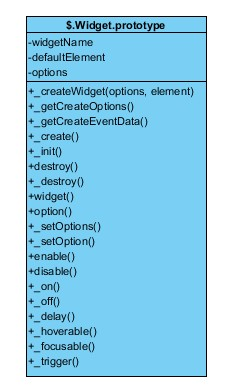
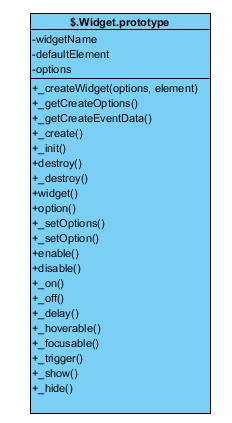
web ui platform

Changed region(s): [[0.0921, 0.031, 0.9211, 0.9922]]

diff --git a/WebContent/web/jquery/jqueryui/source/jQuery UI 代码组成结构.html b/WebContent/web/jquery/jqueryui/source/jQuery UI 代码组成结构.html
@@ -55,7 +55,7 @@ $( ":tabbable" ).css( "border-color", "red" );// 1 2 匹配成功，不设置tab
           <h3 paragraph="2">Utilities</h3>
             
             <p>该模块中包含了jquery.ui.position.js、jquery.ui.widget.js和jquery.ui.mouse.js</p>
-            <p>1、首先看源文件jquery.ui.position.js，该文件中主要围绕$.fn.position（该方法扩展了jQuery中的$.fn.position）展开。<span class="h-web-font-red">该文件可脱离jquery ui 单独作为工具类使用</span>。</p>
+            <p>首先看源文件jquery.ui.position.js，该文件中主要围绕$.fn.position（该方法扩展了jQuery中的$.fn.position）展开。<span class="h-web-font-red">该文件可脱离jquery ui 单独作为工具类使用</span>。</p>
             <h4>$.position.scrollbarWidth()</h4>
           <p>返回滚动条的宽度，该方法只会计算一次，会吧计算的结果缓存到变量中，计算的过程中动态插入了可滚动的div来辅助计算。</p>
             <h4>$.position.getScrollInfo: function( within ) </h4>
@@ -74,7 +74,7 @@ $( ":tabbable" ).css( "border-color", "red" );// 1 2 匹配成功，不设置tab
           
           <h4>$.support.offsetFractions</h4>
           <p>判断css设置像素值是否支持小数</p>
-          <p>2、下面看jquery.ui.widget.js文件</p>
+          <p>下面看jquery.ui.widget.js文件</p>
           <h4>$.widget = function( name, base, prototype )</h4>
           <p>该方法提供了创建jQuery UI的工厂方法，核心是创建构造方法并利用桥接方法组装到$对象中。以下是核心代码</p>
           <pre>        //构造函数，分两种情况，直接new constructor，或者调用父类中_createWidget<br>        constructor = $[ namespace ][ name ] = function(options, element) {        <br>            if (!this._createWidget) {<br>                return new constructor(options, element);<br>            }<br>            if (arguments.length) {<br>                this._createWidget(options, element);<br>            }<br>        };</pre>
@@ -87,12 +87,123 @@ $( ":tabbable" ).css( "border-color", "red" );// 1 2 匹配成功，不设置tab
           <pre>//定义了创建组件的公共方法<br>    $.Widget = function( /* options, element */ ) {<br>    };<br>    $.Widget._childConstructors = [];<br><br>    $.Widget.prototype = {<br>        widgetName: "widget",<br>        widgetEventPrefix: "",<br>        defaultElement: "&lt;div&gt;",<br>        options: {//默认提供了两个属性<br>            disabled: false,<br>            // callbacks<br>            create: null<br>        },<br>        /**<br>         * 创建组件会调用该方法<br>         * @param {type} options<br>         * @param {type} element<br>         */<br>        _createWidget: function(options, element) {<br>            element = $(element || this.defaultElement || this)[ 0 ];<br>            this.element = $(element);<br>            this.uuid = uuid++;<br>            this.eventNamespace = "." + this.widgetName + this.uuid;<br>            this.options = $.widget.extend({},<br>                    this.options,<br>                    this._getCreateOptions(),<br>                    options);<br><br>            this.bindings = $();<br>            this.hoverable = $();<br>            this.focusable = $();<br><br>            if (element !== this) {<br>                // 1.9 BC for #7810<br>                // TODO remove dual storage<br>                $.data(element, this.widgetName, this);<br>                $.data(element, this.widgetFullName, this);<br>                this._on(true, this.element, {<br>                    remove: function(event) {<br>                        if (event.target === element) {<br>                            this.destroy();<br>                        }<br>                    }<br>                });<br>                //设置原生的 document和window对象，注意取法，没有直接用document和window赋值<br>                this.document = $(element.style ?<br>                        // element within the document<br>                        element.ownerDocument :<br>                        // element is window or document<br>                        element.document || element);<br>                this.window = $(this.document[0].defaultView || this.document[0].parentWindow);<br>            }<br>            //调用_create方法，这里会切换到$.each( prototype, function( prop, value ) {此处定义的方法，在此处再调用实现组件时创建的_create方法<br>            this._create();<br>            this._trigger("create", null, this._getCreateEventData());<br>            this._init();<br>        },<br>        <br>        ...<br>    };</pre>
           <p>除了代码中几个属性和方法，实现jQuery UI的关键父类还提供了以下方法，现逐一介绍</p>
           <img src="images/$.Widget.prototype类图.jpg" />
-          <p>&nbsp;</p>
-          <p>下面以创建ui.dialog来分析该方法的执行过程</p>
-          <pre>$.widget("ui.dialog", {<br>   //...<br>});</pre>
-          <p>当执行上面的方法时</p>
-          <p>&nbsp;</p>
-          <p>以下是代码调用过程图</p>
+          
+          <h5>options</h5>
+          <p>选项中默认有两个属性disabled和create。disabled可以设置其显示状态，create可以设置回调函数，即事件，当创建时执行该函数。例如</p>
+          <pre>$('#dialogDemo').dialog({create: function(){console.info(11)}});<br>$("#dialogDemo").dialog( "option", "disabled", true );//置为灰色</pre>
+          
+          <h5>_createWidget</h5>
+          
+          <p>组件构造函数，<span class="h-web-font-red">该方法是$.Widget本身定义的，不需要扩展</span></p>
+          
+          <h5>_create()</h5>
+          
+          <p>这个方法就是创建widget的方法，在页面调用widget的时候，就会执行此方法，来构建widget。Widget的绝大大多数行为和结构都是在这里创建的。所以要想创建jQuery UI，则必须重写该方法。该方法没有参数。</p>
+          <h5>_getCreateOptions()</h5>
+          <p>自定义创建options，该方法大多数情况下不需重写，除非返回比较复杂的options时，一般情况下在定义的时候即把想要设置的options初始化即可。jquery.ui.spinner.js中实现了方法_getCreateOptions()</p>
+          <h5>_getCreateEventData()</h5>
+          <p>返回要创建的事件数据</p>
+          <h5>_init()</h5>
+          <p>这个方法大多数时候不会被重写，这个方法在构建widget的时候在_create后执行。</p>
+          <p class="h-web-font-red">当widget被创建的时候，_create()和_init()这两个方法都会被创建，而当页面再次调用widget的时候，则只执行_init()方法</p>
+          <h5>destroy()</h5>
+          <p>Removes the jQuery.Widget functionality completely. This will return the element back to its pre-init state</p>
+          <p>对于destroy方法，在删除掉该组件的实例化时会被执行！所以在destroy的方法中必须将widget自己加的html结构删除掉。还原成应用widget前的状态。</p>
+          <h5>_destroy()</h5>
+          <p>The public <a href="http://api.jqueryui.com/jQuery.widget/#method-destroy" target="_blank">destroy()</a> method cleans up all common data, events, etc. and then delegates out to _destroy() for custom, widget-specific, cleanup. </p>
+          <h5>widget()</h5>
+          <p>返回组件中的DOM元素          </p>
+          <h5>option(options)</h5>
+          <p>设置一个或更多选项</p>
+          <h5>_setOptions(options)</h5>
+          <p>当设置option()时调用该方法，该方法根据需要可以重写</p>
+          <h5>_setOption(key, value)</h5>
+          <p>_setOptions调用时，会循环调用该方法。此方法提供了options的属性的设置，一般情况下如果options里面的参数不需要特殊处理（校验，类型转换，以及设置属性的时候触发某一操作等）的时候不需要对此方法进行重写。</p>
+          <h5>enable()</h5>
+          <p>显示组件为正常状态</p>
+          <h5>disable()</h5>
+          <p>置灰组件</p>
+          <h5>_on( [element ], handlers)</h5>
+          <p>给元素绑定事件，即给$('.selector')绑定事件，这样就可以触发该事件</p>
+          <h5>_off( element, eventName )</h5>
+          <p>解除事件</p>
+          <h5>_delay(fn [, delay ])</h5>
+          <p>延迟要执行的函数</p>
+          <h5>_hoverable(element )</h5>
+          <p>设置元素element可以应用样式.ui-state-hover的行为，即鼠标进入mouseenter和离开mouseleave的事件</p>
+          <h5>_focusable(element)</h5>
+          <p>同上，设置焦点行为</p>
+          <h5>_trigger(type [, event ] [, data ])</h5>
+          <p>如果有自定义的事件，可以采用widget为我们封装好的方法来处理_trigger()这个方法来处理，其调用方法 this._trigger(type, event, data)，第一个参数为时间类型，第二个参数为事件event对象，第三个参数为事件要传递的参数。The event name is the widget name + type.</p>
+          <h5>_show( element, option [, callback ] )</h5>
+          <p>组件显示</p>
+          <h5>_hide( element, option [, callback ] )</h5>
+          <p>隐藏组件</p>
+          
+          <p>下面是一个简单的widget例子，<span class="h-web-font-red">主要重写了_create和_init()方法</span></p>
+          <pre>//此widget是将textbox进行修饰一下的。自身没有css，采用的是jquery ui css framework的样式<br>            (function($) {<br>                //ui默认采用jquery的ui前缀，后面的是widget名称<br>                $.widget("ui.textboxdecorator", {<br>                    //此widget中没有options<br>                    options: {<br>                    },<br>                    _create:function(){<br>                        this.hasElement = true;<br>                        if(this.element.length == 0){<br>                            this.hasElement = false;<br>                            return;<br>                        }<br>                        var currentEl = this.element[0];<br>                        //验证是否是需要装饰的元素<br>                        if (!(currentEl.tagName.toLowerCase() === "input" || currentEl.tagName.toLowerCase() === "textarea")) {<br>                            this.hasElement = false;<br>                            return;<br>                        }<br>                        if (!(currentEl.type.toLowerCase() === "text" || currentEl.type.toLowerCase() === "password")) {<br>                            if (currentEl.tagName.toLowerCase() === "input")<br>                                this.hasElement = false;<br>                                return;<br>                        }<br>                    },<br>                    _init: function() {<br>                        if(!this.hasElement){<br>                            return;<br>                        }<br>                        //this.element也就是调用此widget的元素<br>                        var e = this.element;<br>                        //ui-widget widget基本的样式，ui-state-default。默认状态的样式；ui- corner-all 圆角<br>                        this.element.addClass("ui-widget ui-state-default ui-corner-all");<br>                        //添加hover效果和active效果<br>                        this.element.mouseover(function() {<br>                            e.addClass("ui-state-hover");<br>                        }).mouseout(function() {<br>                            e.removeClass("ui-state-hover");<br>                        }).mousedown(function() {<br>                            e.addClass("ui-state-active");<br>                        }).mouseup(function() {<br>                            e.removeClass("ui-state-active");<br>                        });<br>                    },<br>                    //销毁时，移除widget增加的样式<br>                    destroy: function() {<br>                        this.element.removeClass("ui-widget ui-state-default ui-corner-all ui-state-hover ui-state-active");<br>                    }<br>                });<br>            })(jQuery);</pre>
+          <p>运行效果</p>
+          
+          <p>
+             <input type="text" name="inputDemo" id="inputDemo"/>
+          </p>
+          <script type="text/javascript">
+		      //此widget是将textbox进行修饰一下的。自身没有css，采用的是jquery ui css framework的样式
+            (function($) {
+                //ui默认采用jquery的ui前缀，后面的是widget名称
+                $.widget("ui.textboxdecorator", {
+                    //此widget中没有options
+                    options: {
+                    },
+                    _create:function(){
+                        this.hasElement = true;
+                        if(this.element.length == 0){
+                            this.hasElement = false;
+                            return;
+                        }
+                        var currentEl = this.element[0];
+                        //验证是否是需要装饰的元素
+                        if (!(currentEl.tagName.toLowerCase() === "input" || currentEl.tagName.toLowerCase() === "textarea")) {
+                            this.hasElement = false;
+                            return;
+                        }
+                        if (!(currentEl.type.toLowerCase() === "text" || currentEl.type.toLowerCase() === "password")) {
+                            if (currentEl.tagName.toLowerCase() === "input")
+                                this.hasElement = false;
+                                return;
+                        }
+                    },
+                    _init: function() {
+                        if(!this.hasElement){
+                            return;
+                        }
+                        //this.element也就是调用此widget的元素
+                        var e = this.element;
+                        //ui-widget widget基本的样式，ui-state-default。默认状态的样式；ui- corner-all 圆角
+                        this.element.addClass("ui-widget ui-state-default ui-corner-all");
+                        //添加hover效果和active效果
+                        this.element.mouseover(function() {
+                            e.addClass("ui-state-hover");
+                        }).mouseout(function() {
+                            e.removeClass("ui-state-hover");
+                        }).mousedown(function() {
+                            e.addClass("ui-state-active");
+                        }).mouseup(function() {
+                            e.removeClass("ui-state-active");
+                        });
+                    },
+                    //销毁时，移除widget增加的样式
+                    destroy: function() {
+                        this.element.removeClass("ui-widget ui-state-default ui-corner-all ui-state-hover ui-state-active");
+                    }
+                });
+            })(jQuery);
+            
+            $(function(){
+                $('#inputDemo').textboxdecorator();
+            });
+		  </script>
+          <p>以下是widget创建和实例化时代码调用过程图</p>
           <img src="images/jQuery UI组件定义类和实例化过程.jpg" />
           <p>&nbsp;</p>
           

diff --git a/WebContent/web/jquery/jqueryui/source/一个简单的Widget例子.html b/WebContent/web/jquery/jqueryui/source/一个简单的Widget例子.html
@@ -1,0 +1,72 @@
+<!DOCTYPE html>
+<html>
+    <head>
+        <meta http-equiv="Content-Type" content="text/html; charset=UTF-8" />
+        <title></title>
+        <link rel="stylesheet" href="../../../../platform/javascript/jquery-ui/css/ui-lightness/jquery-ui-1.9.2.custom.css" type="text/css"/>
+    </head>
+    <body>
+        <div>
+            <input type="text" name="inputDemo" id="inputDemo"/>
+        </div>
+        <script type="text/javascript" src="../../../../platform/javascript/jquery/jquery-1.8.2.js"></script>
+        <script type="text/javascript" src="../../../../platform/javascript/jquery-ui/jquery-ui-1.9.2.custom.js"></script>
+
+        <script type="text/javascript">
+            //此widget是将textbox进行修饰一下的。自身没有css，采用的是jquery ui css framework的样式
+            (function($) {
+                //ui默认采用jquery的ui前缀，后面的是widget名称
+                $.widget("ui.textboxdecorator", {
+                    //此widget中没有options
+                    options: {
+                    },
+                    _create:function(){
+                        this.hasElement = true;
+                        if(this.element.length == 0){
+                            this.hasElement = false;
+                            return;
+                        }
+                        var currentEl = this.element[0];
+                        //验证是否是需要装饰的元素
+                        if (!(currentEl.tagName.toLowerCase() === "input" || currentEl.tagName.toLowerCase() === "textarea")) {
+                            this.hasElement = false;
+                            return;
+                        }
+                        if (!(currentEl.type.toLowerCase() === "text" || currentEl.type.toLowerCase() === "password")) {
+                            if (currentEl.tagName.toLowerCase() === "input")
+                                this.hasElement = false;
+                                return;
+                        }
+                    },
+                    _init: function() {
+                        if(!this.hasElement){
+                            return;
+                        }
+                        //this.element也就是调用此widget的元素
+                        var e = this.element;
+                        //ui-widget widget基本的样式，ui-state-default。默认状态的样式；ui- corner-all 圆角
+                        this.element.addClass("ui-widget ui-state-default ui-corner-all");
+                        //添加hover效果和active效果
+                        this.element.mouseover(function() {
+                            e.addClass("ui-state-hover");
+                        }).mouseout(function() {
+                            e.removeClass("ui-state-hover");
+                        }).mousedown(function() {
+                            e.addClass("ui-state-active");
+                        }).mouseup(function() {
+                            e.removeClass("ui-state-active");
+                        });
+                    },
+                    //销毁时，移除widget增加的样式
+                    destroy: function() {
+                        this.element.removeClass("ui-widget ui-state-default ui-corner-all ui-state-hover ui-state-active");
+                    }
+                });
+            })(jQuery);
+            
+            $(function(){
+                $('#inputDemo').textboxdecorator();
+            });
+        </script>
+    </body>
+</html>

diff --git a/WebContent/index.html b/WebContent/index.html
@@ -11,6 +11,7 @@
         <meta name="author" content="wangyanjun linder0209@126.com">
         <meta name="description" content="Web Ui Platform">
         
+        <link rel="stylesheet" href="./platform/javascript/jquery-ui/css/ui-lightness/jquery-ui-1.9.2.custom.css" type="text/css"/>
         <!-- <link type="text/css" rel="stylesheet" href="./platform/javascript/syntaxhighlighter/styles/shCoreDefault.css"/> -->
         <link type="text/css" rel="stylesheet" href="./platform/javascript/syntaxhighlighter/styles/shCoreEclipse.css"/>
         

diff --git a/WebContent/web/jquery/jqueryui/source/jQuery demo.html b/WebContent/web/jquery/jqueryui/source/jQuery demo.html
@@ -14,7 +14,11 @@
         
         <script type="text/javascript">
             $(function(){
-                $('#dialogDemo').dialog({});
+                $('#dialogDemo').dialog({create: function(){console.info(11)}});
+                //var disabled = $( "#dialogDemo" ).dialog( "option", "disabled" );
+                //alert(disabled);
+                // setter
+                $( "#dialogDemo" ).dialog( "option", "disabled", true );
             });
         </script>
     </body>
